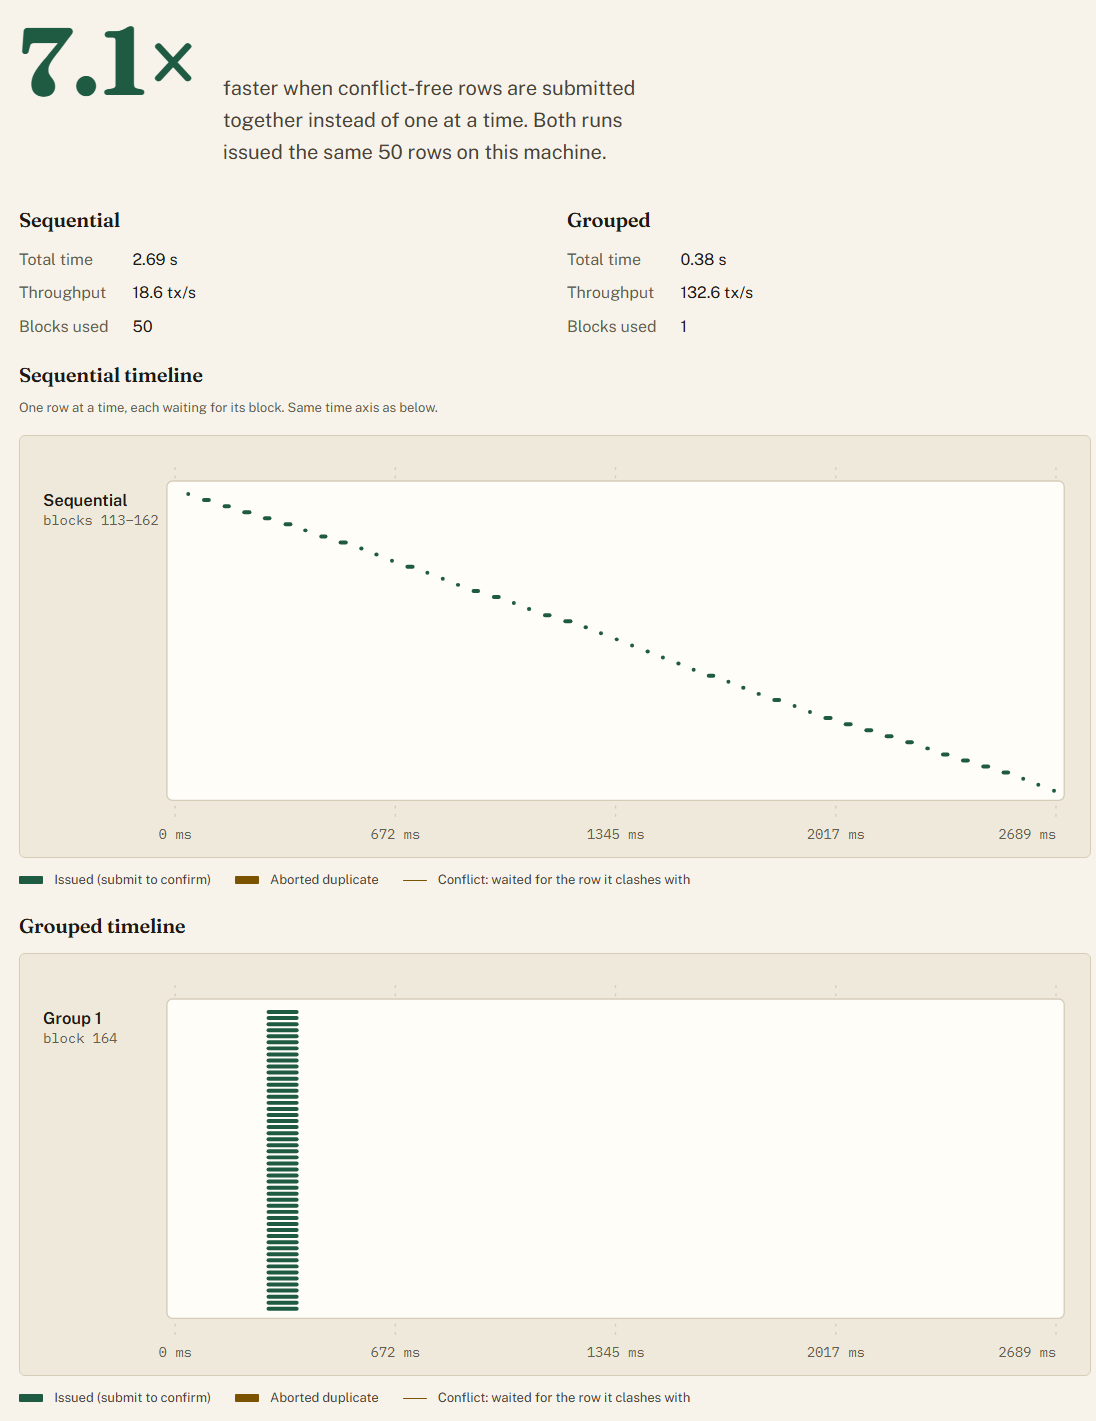
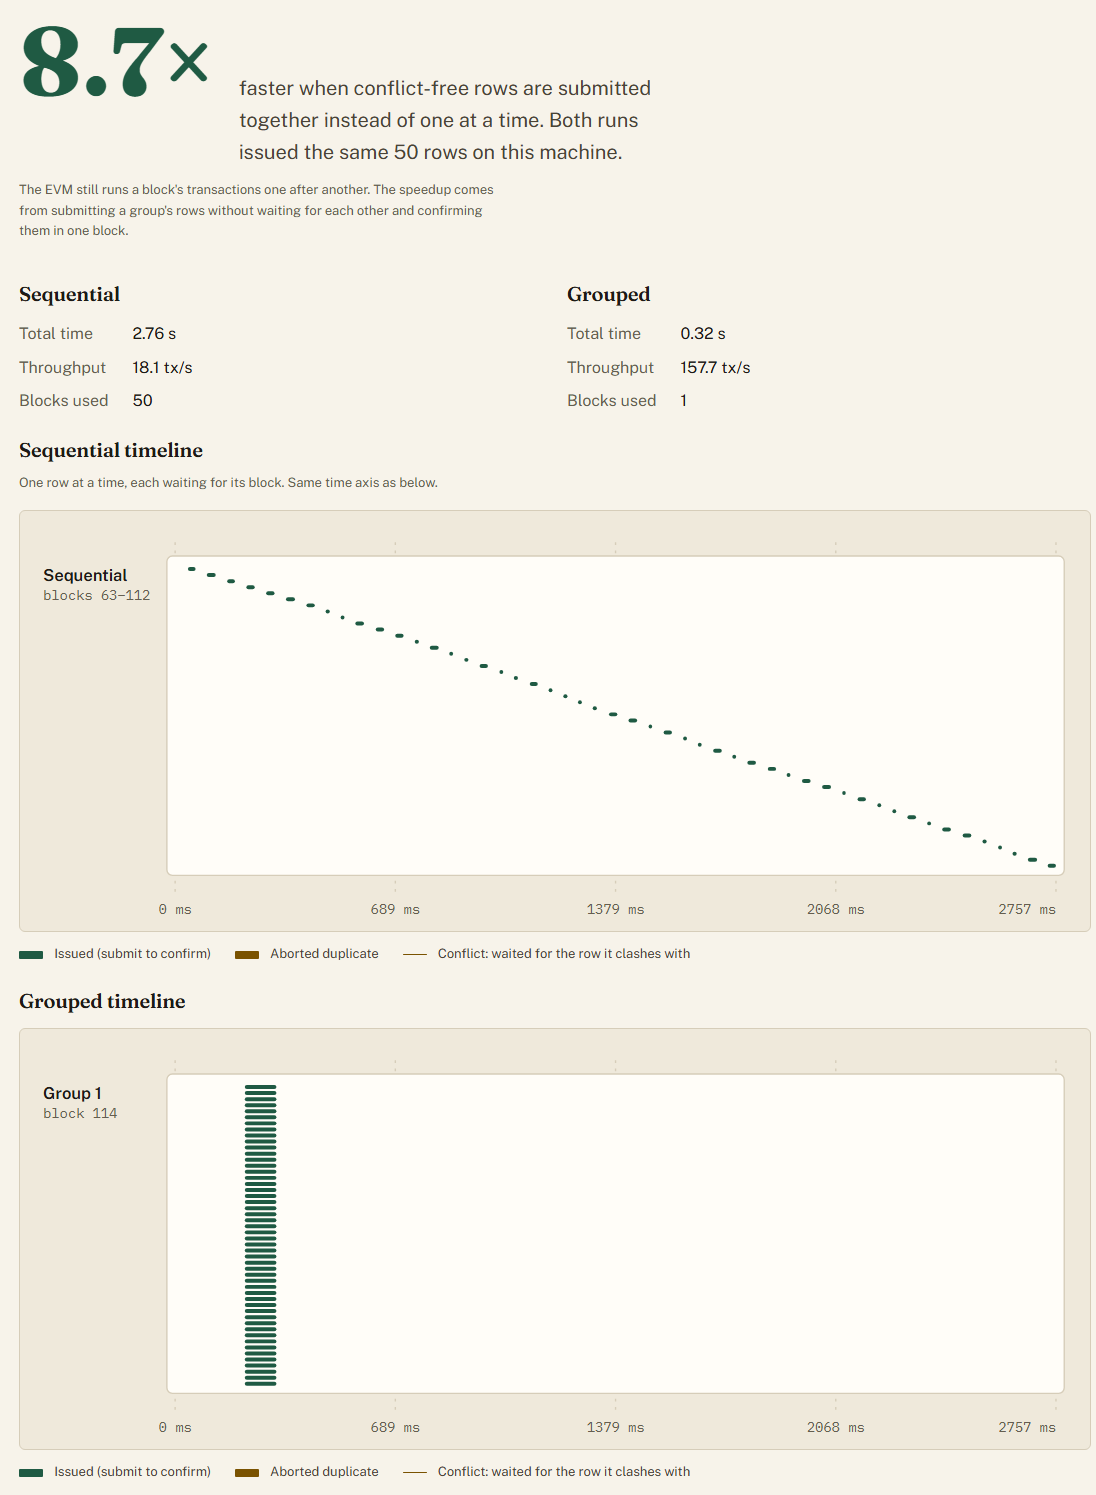
task 9: hardening and honesty

diff --git a/batch-service/server.js b/batch-service/server.js
@@ -135,6 +135,7 @@ app.post('/api/batch/issue', async (req, res, next) => {
     };
     // With automine off a revert only shows up in the receipt; replay the call one block earlier for the reason.
     const reasonOf = async (e, sent) => {
+      if (e.code === 'TIMEOUT') return 'Timed out waiting for confirmation';
       const direct = /reason string '([^']+)'/.exec(e.message);
       if (direct) return direct[1];
       if (e.receipt) {
@@ -168,7 +169,7 @@ app.post('/api/batch/issue', async (req, res, next) => {
         mark();
         submitted = true;
         if (blockPerGroup) await settleSubmit(g);
-        const receipt = await sent.wait(); // throws on revert
+        const receipt = await sent.wait(1, 30_000); // throws on revert; the timeout stops a nonce gap from hanging the request
         blocks[tx.idx] = receipt.blockNumber;
         committedKeys.add(conflictKey(tx));
         return receipt.hash;

diff --git a/frontend/src/index.css b/frontend/src/index.css
@@ -351,5 +351,7 @@ tr:hover .copy-icon, tr:focus-within .copy-icon, .copy-icon:focus-visible { opac
 .check input { width: 1.25rem; height: 1.25rem; min-height: 0; accent-color: var(--accent); }
 .speedup { display: flex; flex-wrap: wrap; align-items: baseline; gap: var(--space-3) var(--space-5); margin: var(--space-4) 0; }
 .speedup-fig { font-family: var(--font-display); font-weight: 700; font-size: clamp(3.5rem, 12vw, 6rem); line-height: 1; color: var(--accent); margin: 0; max-width: none; font-variant-numeric: tabular-nums; }
-.speedup p:last-child { max-width: 36ch; margin: 0; font-size: var(--step-1); color: var(--ink-2); }
+.speedup p:nth-child(2) { max-width: 36ch; margin: 0; font-size: var(--step-1); color: var(--ink-2); }
 .empty { max-width: none; }
+.speedup-note { flex-basis: 100%; max-width: 60ch; margin: 0; }
+.speedup p.speedup-note { font-size: var(--step--1); color: var(--muted); max-width: 60ch; }

diff --git a/frontend/src/pages/BatchIssue.jsx b/frontend/src/pages/BatchIssue.jsx
@@ -221,6 +221,7 @@ function Comparison({ cmp }) {
       <div className="speedup">
         <p className="speedup-fig" aria-label={`Speedup ${speedup.toFixed(1)} times`}>{speedup.toFixed(1)}&times;</p>
         <p>faster when conflict-free rows are submitted together instead of one at a time. Both runs issued the same {seq.metrics.totalTxs} rows on this machine.</p>
+        <p className="hint speedup-note">The EVM still runs a block&apos;s transactions one after another. The speedup comes from submitting a group&apos;s rows without waiting for each other and confirming them in one block.</p>
       </div>
       <div className="split">{col('Sequential', seq)}{col('Grouped', grp)}</div>
       <h3>Sequential timeline</h3>

diff --git a/README.md b/README.md
@@ -167,9 +167,9 @@ One run of 50 conflict-free rows, sequential first, then grouped (different prog
 | Sequential | 2505 ms | 20.0 tx/s | 50 |
 | Grouped | 310 ms | 161.3 tx/s | 1 |
 
-That is about 8.1 times faster. The numbers come from the `metrics` object the service returned for that run; they vary from run to run and by machine. On the local node a block per group makes the concurrency visible. On a real chain the network decides block packing itself, so expect the shape (rows of a group submitted together) but not these figures.
+That is about 8.1 times faster. The numbers come from the `metrics` object the service returned for that run; they vary from run to run and by machine. The EVM still runs a block's transactions one after another; the speedup comes from submitting a group's rows without waiting for each other and confirming them in one block. On the local node a block per group makes this visible. On a real chain the network decides block packing itself, so expect the shape (rows of a group submitted together) but not these figures.
 
-If the batch service is killed in the middle of a group, the node may be left with automine off. Restart `npx hardhat node`, or send `evm_setAutomine true` to it.
+If the batch service is killed in the middle of a group, the node may be left with automine off. Restart `npx hardhat node`, or send `evm_setAutomine true` to it. Each row waits at most 30 seconds for its confirmation and then fails with "Timed out waiting for confirmation"; a timed-out run may leave pending transactions, so restart the node.
 
 ---
 
